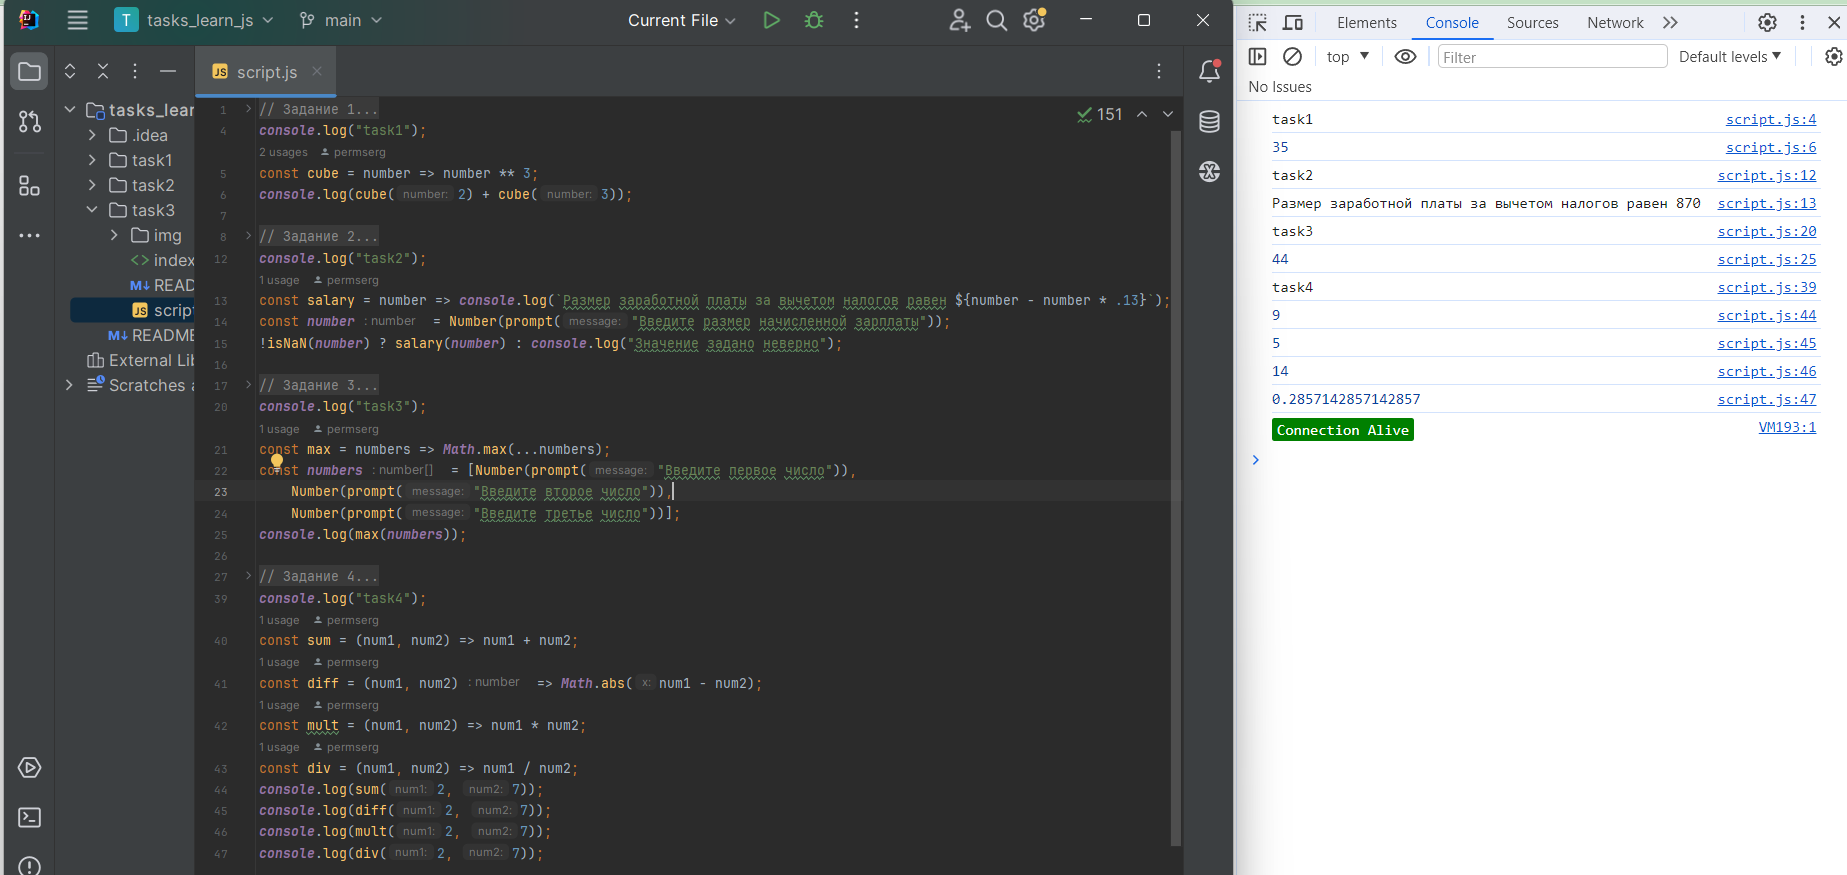
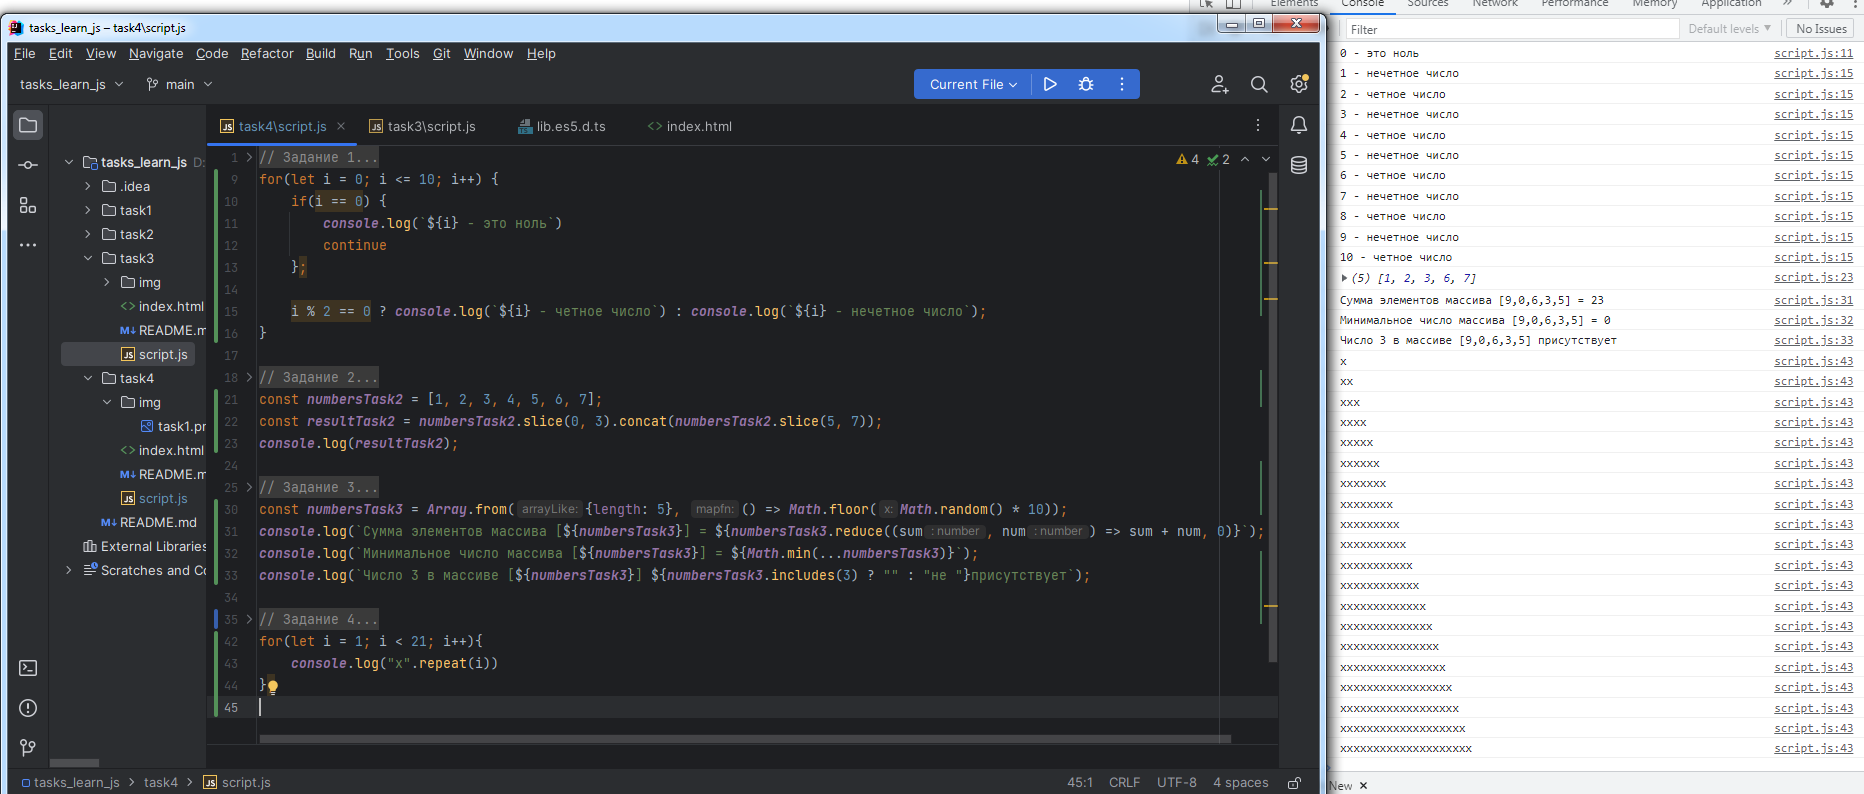
task4 ready

diff --git a/task4/script.js b/task4/script.js
@@ -6,16 +6,39 @@
 // 3 – нечетное число
 // …
 // 10 – четное число
+for(let i = 0; i <= 10; i++) {
+    if(i == 0) {
+        console.log(`${i} - это ноль`)
+        continue
+    };
+
+    i % 2 == 0 ? console.log(`${i} - четное число`) : console.log(`${i} - нечетное число`);
+}
 
 // Задание 2
 // Дан массив [1, 2, 3, 4, 5, 6, 7]
 // Сделайте из этого массива следующий [1, 2, 3, 6, 7]
+const numbersTask2 = [1, 2, 3, 4, 5, 6, 7];
+const resultTask2 = numbersTask2.slice(0, 3).concat(numbersTask2.slice(5, 7));
+console.log(resultTask2);
 
 // Задание 3
 // Используя Math.random() вам необходимо генерировать цифры от 0 до 9, и создать массив состоящий из 5 таких элементов
 // 1. Рассчитать сумму элементов этого массива
 // 2. Найти минимальное число
 // 3. Найти есть ли в этом массиве число 3
+const numbersTask3 = Array.from({length: 5}, () => Math.floor(Math.random() * 10));
+console.log(`Сумма элементов массива [${numbersTask3}] = ${numbersTask3.reduce((sum, num) => sum + num, 0)}`);
+console.log(`Минимальное число массива [${numbersTask3}] = ${Math.min(...numbersTask3)}`);
+console.log(`Число 3 в массиве [${numbersTask3}] ${numbersTask3.includes(3) ? "" : "не "}присутствует`);
 
 // Задание 4
 // Необходимо вывести горку в консоль (используя цикл for), как показано на рисунке, только у вашей горки должно быть 20 рядов, а не 5:
+// x
+// xx
+// xxx
+// xxxx
+// xxxxx
+for(let i = 1; i < 21; i++){
+    console.log("x".repeat(i))
+};
